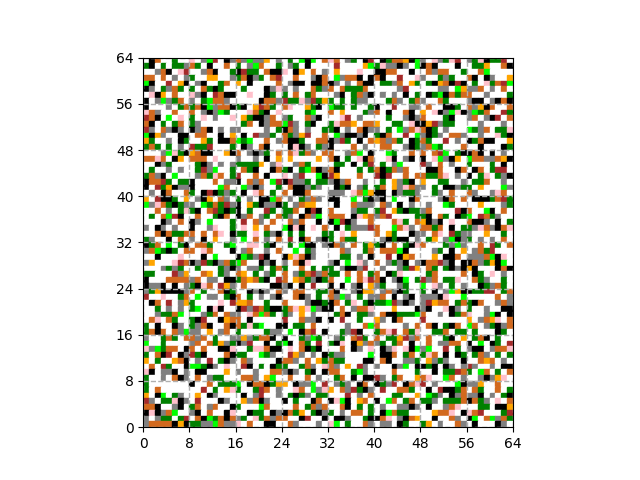
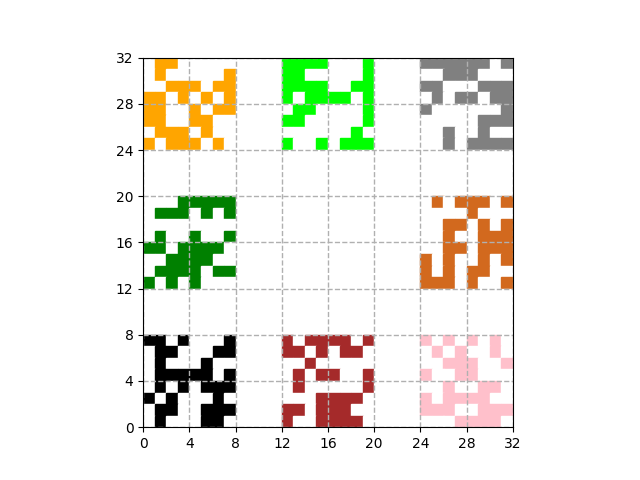
change map design

diff --git a/ecoevo/maps/get_json.py b/ecoevo/maps/get_json.py
@@ -10,78 +10,84 @@ import matplotlib.patches as pch
 """ generate block types """
 
 dict_type_idx = {
-    'empty': 0, 'gold': 1, 'pepper': 2, 'coral': 3, 'sand': 4, 'pineapple': 5, 'peanut': 6, 'stone': 7, 'pumpkin': 8
+    'empty': 0, 'gold': 1, 'hazelnut': 2, 'coral': 3, 'sand': 4, 'pineapple': 5, 'peanut': 6, 'stone': 7, 'pumpkin': 8
 }
-list_type = ['empty', 'gold', 'pepper', 'coral', 'sand', 'pineapple', 'peanut', 'stone', 'pumpkin']
+list_type = ['empty', 'gold', 'hazelnut', 'coral', 'sand', 'pineapple', 'peanut', 'stone', 'pumpkin']
 
-# mat_type_area = [
-#     [['coffee'], ['apple'], ['banana'], ['tea']], 
-#     [['banana'], ['tea', 'coral'], ['coffee', 'coral'], ['apple']], 
-#     [['coffee'], ['apple', 'coral'], ['banana', 'coral'], ['tea']], 
-#     [['banana'], ['tea'], ['coffee'], ['apple']]]
-# list_type_common = ['diamond', 'gold', 'platinum', 'wood', 'stone', 'coal', 'iron']
-
-map_size = 64
+map_size = 32
 area_size = 8
-dict_if_rare = {
-    'gold': True, 'pepper': True, 'coral': True, 'sand': False, 
-    'pineapple': True, 'peanut': False, 'stone': False, 'pumpkin': False
+dict_reserve = {
+    'gold': 5000, 'hazelnut': 100, 'coral': 5000, 'sand': 15000, 
+    'pineapple': 100, 'peanut': 100, 'stone': 15000, 'pumpkin': 100
 }
-num_block_rare, num_block_adequate = 2, 8
 
 # generate the distribution of blocks
 np.random.seed(42)
-num_area_side = round(map_size / area_size)
-mat_type_block = np.zeros(shape=(num_area_side * area_size, num_area_side * area_size))
-for i in range(num_area_side):
-    for j in range(num_area_side):
-        mat_type_ = np.zeros(shape=(area_size, area_size))
-        for t in list_type:
-            if t == 'empty':
-                continue
+mat_type_all = np.zeros(shape=(map_size, map_size))
+num_block_resource = 32
+for t in list_type:
+    if t == 'empty':
+        continue
 
-            num_block_ = num_block_rare if dict_if_rare[t] else num_block_adequate
-            for k in range(num_block_):
-                x, y = np.random.randint(low=0, high=area_size), np.random.randint(low=0, high=area_size)
-                while mat_type_[x, y]:
-                    x, y = np.random.randint(low=0, high=area_size), np.random.randint(low=0, high=area_size)
-                mat_type_[x, y] = dict_type_idx[t]
-        mat_type_block[area_size * i: area_size * (i + 1), area_size * j: area_size * (j + 1)] = mat_type_
-mat_type_block = mat_type_block.astype('int').tolist()
+    mat_type_area = np.zeros(shape=(area_size, area_size))
+    for i in range(num_block_resource):
+        x, y = np.random.randint(low=0, high=area_size), np.random.randint(low=0, high=area_size)
+        while mat_type_area[x, y]:
+            x, y = np.random.randint(low=0, high=area_size), np.random.randint(low=0, high=area_size)
+        mat_type_area[x, y] = dict_type_idx[t]
+
+    if t == 'gold':
+        mat_type_all[0: 8, 0: 8] = mat_type_area
+    elif t == 'pineapple':
+        mat_type_all[0: 8, 12: 20] = mat_type_area
+    elif t == 'sand':
+        mat_type_all[0: 8, 24: 32] = mat_type_area
+    elif t == 'pumpkin':
+        mat_type_all[12: 20, 0: 8] = mat_type_area
+    elif t == 'peanut':
+        mat_type_all[12: 20, 24: 32] = mat_type_area
+    elif t == 'stone':
+        mat_type_all[24: 32, 0: 8] = mat_type_area
+    elif t == 'hazelnut':
+        mat_type_all[24: 32, 12: 20] = mat_type_area
+    elif t == 'coral':
+        mat_type_all[24: 32, 24: 32] = mat_type_area
+
+mat_type_all = mat_type_all.astype('int').tolist()
 
 
 """ visualise """
 
 dict_type_colour = {
     'empty': 'white', 
-    'gold': 'orange', 'pepper': 'brown', 'coral': 'pink', 'sand': 'grey', 
+    'gold': 'orange', 'hazelnut': 'brown', 'coral': 'pink', 'sand': 'grey', 
     'pineapple': 'lime', 'peanut': 'chocolate', 'stone': 'black', 'pumpkin': 'green'
 }
 
 fig, ax = plt.subplots()
 
 # draw blocks
-shape_height, shape_width = len(mat_type_block), len(mat_type_block[0])
 len_block = 1
-for y in range(shape_height):
-    for x in range(shape_width):
+for y in range(map_size):
+    for x in range(map_size):
         rectangle = pch.Rectangle(
-            xy=(x * len_block, (shape_height - y - 1) * len_block), 
-            width=len_block, height=len_block, color=dict_type_colour[list_type[mat_type_block[y][x]]])
+            xy=(x * len_block, (map_size - y - 1) * len_block), 
+            width=len_block, height=len_block, color=dict_type_colour[list_type[mat_type_all[y][x]]])
         ax.add_patch(rectangle)
-        # plt.text(x=x + len_block / 2, y=shape_height - y - 1 + len_block / 2, s=str(mat_type_block[y][x]))
+        # plt.text(x=x + len_block / 2, y=map_size - y - 1 + len_block / 2, s=str(mat_type_all[y][x]))
 
 # let the length of an x axis unit be equal with y axis
 ax.set_aspect(1)
 
 # 8 blocks an area
-x_major_locator = plt.MultipleLocator(area_size)
-y_major_locator = plt.MultipleLocator(area_size)
+dash_interval = 4
+x_major_locator = plt.MultipleLocator(dash_interval)
+y_major_locator = plt.MultipleLocator(dash_interval)
 ax.xaxis.set_major_locator(x_major_locator)
 ax.yaxis.set_major_locator(y_major_locator)
 
-plt.xlim(xmin=0, xmax=shape_width * len_block)
-plt.ylim(ymin=0, ymax=shape_height * len_block)
+plt.xlim(xmin=0, xmax=map_size * len_block)
+plt.ylim(ymin=0, ymax=map_size * len_block)
 plt.grid(linestyle='dashed', linewidth=1)
 
 
@@ -97,14 +103,14 @@ plt.savefig(path_picture)
 
 """ save json """
 
-mat_type = [[list_type[mat_type_block[i][j]] for j in range(map_size)] for i in range(map_size)]
+mat_type_all_ = [[list_type[mat_type_all[i][j]] for j in range(map_size)] for i in range(map_size)]
 
-amount = 10
 dict_json = {
     "width": map_size, 
     "height": map_size, 
-    "tiles": mat_type, 
-    "amount": [[amount if mat_type_block[i][j] else 0 for j in range(map_size)] for i in range(map_size)]
+    "tiles": mat_type_all_, 
+    "amount": [[dict_reserve[
+        mat_type_all_[i][j]] if mat_type_all[i][j] else 0 for j in range(map_size)] for i in range(map_size)]
 }
 json_map = json.dumps(dict_json)
 
